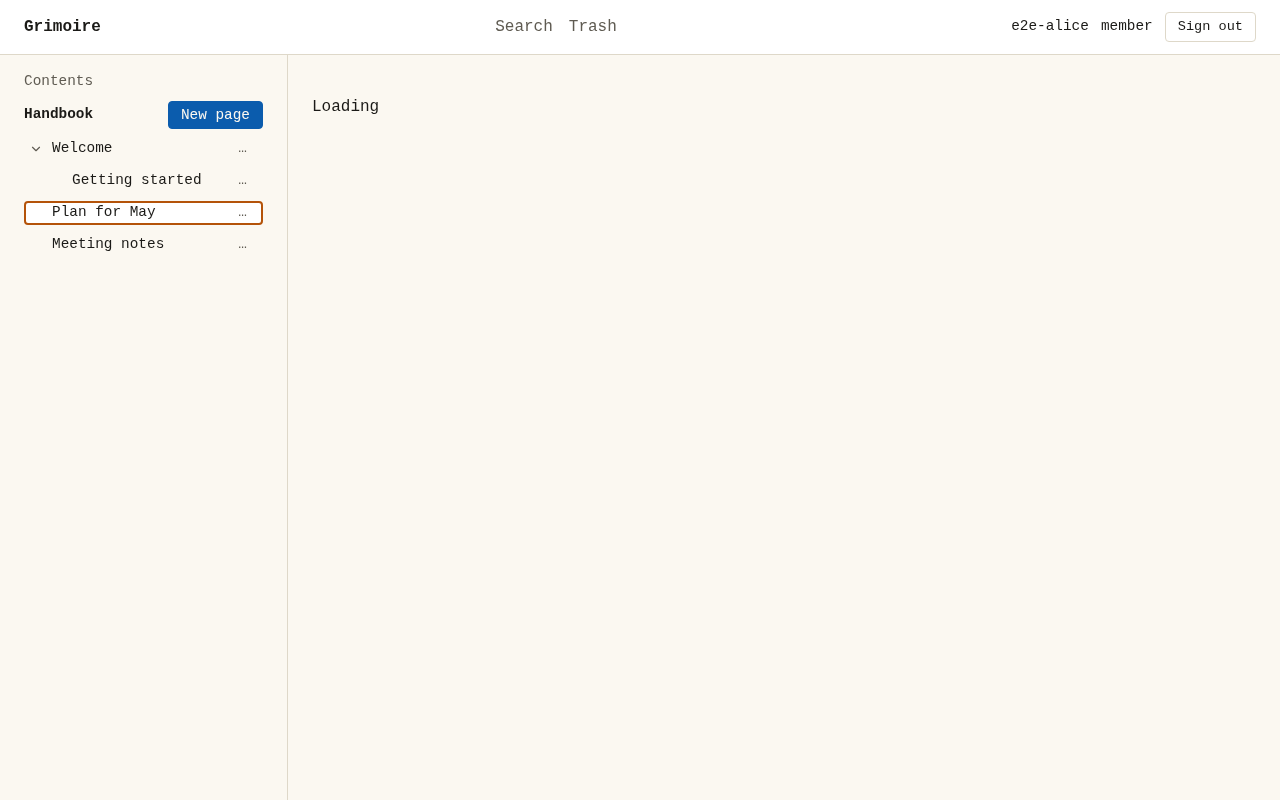
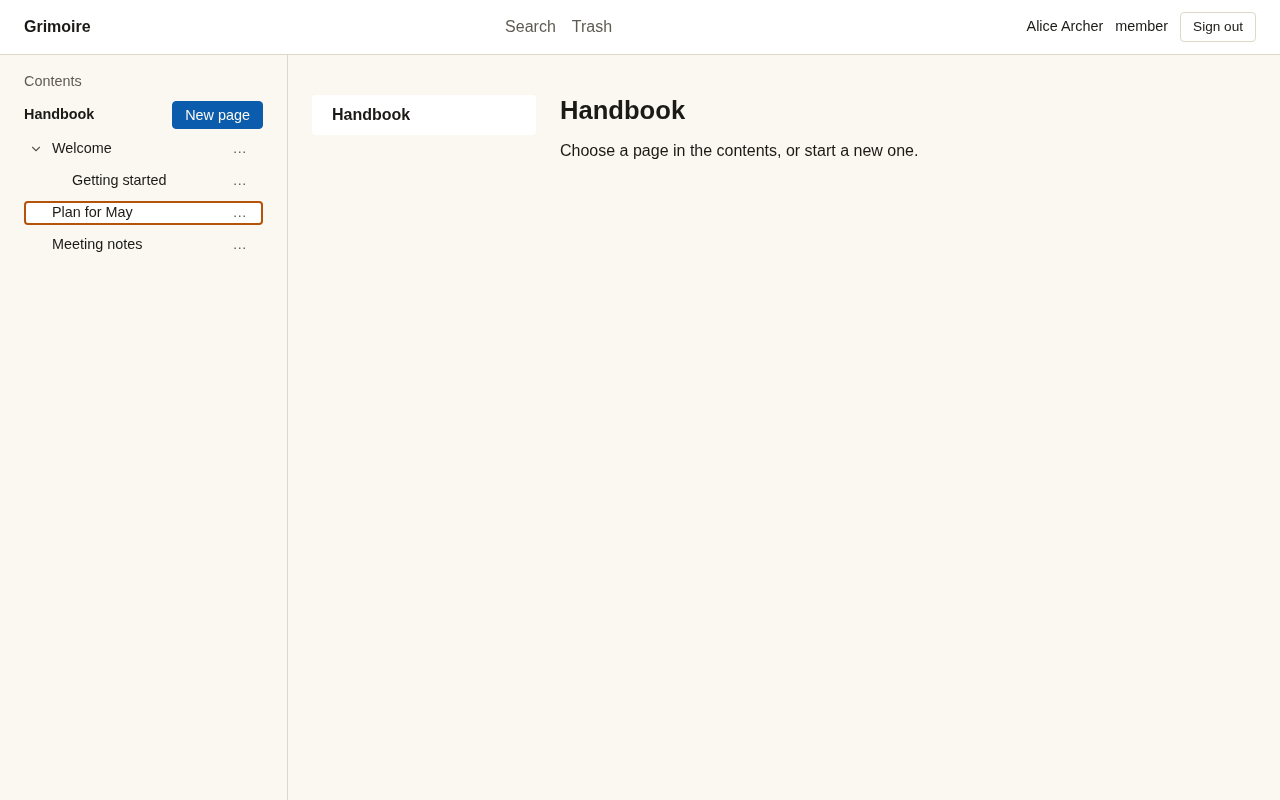
docs(web): the shots of the keyboard walk and the narrow window are taken once the page has loaded, as the person the other shots show

diff --git a/apps/web/test-e2e/a11y/screenshots.spec.ts b/apps/web/test-e2e/a11y/screenshots.spec.ts
@@ -1,5 +1,5 @@
-import { expect, test } from '@playwright/test';
-import { mockApi } from '../collections/mock-api';
+import { expect, test, type Page } from '@playwright/test';
+import { API, mockApi } from '../collections/mock-api';
 import { makePage } from '../editor/pages';
 import { shots } from '../support/shots';
 import { signInAs } from '../support/sign-in';
@@ -13,14 +13,38 @@ const p = (id: string, parentId: string | null, position: string, title: string)
 const COLLECTIONS = [{ id: 'c1', name: 'Handbook', myPermission: 'read-write' as const }];
 const PAGES = [p('welcome', null, 'p0', 'Welcome'), p('guide', 'welcome', 'p0', 'Getting started'), p('plan', null, 'p1', 'Plan for May'), p('notes', null, 'p2', 'Meeting notes')];
 
+/** The mock API with the person the other shots show, and the page after it has loaded (no "Loading" of a screen that is still being fetched). */
+async function openCollection(page: Page): Promise<void> {
+  await mockApi(page, { collections: COLLECTIONS, pages: PAGES });
+  await page.route(`${API}/v1/me`, (route) =>
+    route.request().method() === 'OPTIONS'
+      ? route.fallback()
+      : route.fulfill({
+          status: 200,
+          contentType: 'application/json',
+          headers: { 'access-control-allow-origin': route.request().headers()['origin'] ?? '*' },
+          body: JSON.stringify({ id: 'u1', name: 'Alice Archer', email: 'alice@dev.invalid', role: 'member' }),
+        }),
+  );
+}
+
+/** The page is settled: the tree is drawn, nothing says "Loading", and the person's name is shown. `E2E_SHOT_FONT` (a font stack) stands in for the interface font where the machine has none that looks like the product's. */
+async function settled(page: Page): Promise<void> {
+  await expect(page.getByRole('treeitem')).toHaveCount(4);
+  await expect(page.getByText('Loading', { exact: true })).toHaveCount(0);
+  await expect(page.getByText('Alice Archer')).toBeVisible();
+  const font = process.env['E2E_SHOT_FONT'];
+  if (font !== undefined) await page.addStyleTag({ content: `:root { --font-ui: ${font}; }` });
+}
+
 for (const reduced of [false, true]) {
   test(`the contents tree with the focus on a row${reduced ? ', with reduced motion' : ''}`, async ({ page, context, browserName }) => {
     test.skip(browserName !== 'chromium', 'screenshots are taken once, in Chromium');
     await signInAs(context, 'e2e-alice', 'member', { check: false });
-    await mockApi(page, { collections: COLLECTIONS, pages: PAGES });
+    await openCollection(page);
     if (reduced) await page.emulateMedia({ reducedMotion: 'reduce' });
     await page.goto('/c/c1');
-    await expect(page.getByRole('treeitem')).toHaveCount(4);
+    await settled(page);
     await tabTo(page, page.getByRole('treeitem'));
     await page.keyboard.press('ArrowDown');
     await page.keyboard.press('ArrowDown');
@@ -31,18 +55,18 @@ for (const reduced of [false, true]) {
 test('the contents tree in a window 320 pixels wide (a page at 400% zoom)', async ({ page, context, browserName }) => {
   test.skip(browserName !== 'chromium', 'screenshots are taken once, in Chromium');
   await signInAs(context, 'e2e-alice', 'member', { check: false });
-  await mockApi(page, { collections: COLLECTIONS, pages: PAGES });
+  await openCollection(page);
   await page.goto('/c/c1');
-  await expect(page.getByRole('treeitem')).toHaveCount(4);
+  await settled(page);
   await shots(page, TASK, 'narrow-320', { width: 320 });
 });
 
 test('the Move to dialog with the focus on a choice', async ({ page, context, browserName }) => {
   test.skip(browserName !== 'chromium', 'screenshots are taken once, in Chromium');
   await signInAs(context, 'e2e-alice', 'member', { check: false });
-  await mockApi(page, { collections: COLLECTIONS, pages: PAGES });
+  await openCollection(page);
   await page.goto('/c/c1');
-  await expect(page.getByRole('treeitem')).toHaveCount(4);
+  await settled(page);
   await tabTo(page, page.getByRole('treeitem'));
   await page.keyboard.press('ArrowDown');
   await page.keyboard.press('ArrowDown');
